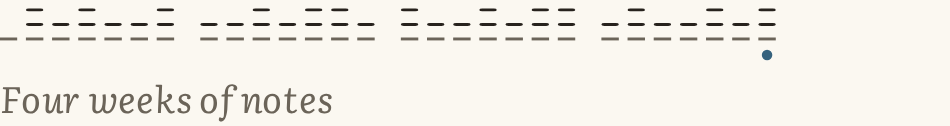
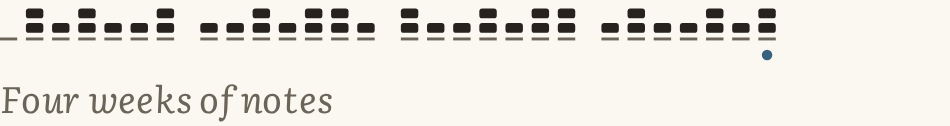
Days marks drawn again; Journal keeps a time with its words; wants-you in coral (T-476) (#171)
* From the day's walk: the Days strip draws its marks again (the pages' own marks are pa-leaf, so their 1px rule no longer flattens Days'); Journal keeps a time with its words across a page; what wants you under a row is in the coral of the next thing (T-476)

* From the review: the parts' pictures other than Days stay as drawn on paper (the new ones caught the evening sky); THEME, LOOK and the token's description say a row's wants-you line is the primary (T-476)

* embed e2e: a "home" another test allowed with less asks again for what is new; openAndAllow allows that too (CI's core-next job stopped on that card) (T-476)

* embed e2e: each test's Home has an id of its own, so a "home" another spec allowed can't ask again (replaces the Allow loop, which could approve twice) (T-476)

---------

diff --git a/src/kit/parts.css b/src/kit/parts.css
@@ -84,7 +84,8 @@ div.pa-row { cursor: default; }
 .pa-unseen { position: absolute; width: 1px; height: 1px; overflow: hidden; clip-path: inset(50%); white-space: nowrap; }
 .pa-row[aria-current="true"] { box-shadow: inset 3px 0 0 var(--accent); padding-left: 10px; background: var(--tint); }
 .pa-badge { margin-left: 8px; padding: 0 7px; border: 1.5px solid var(--text); border-radius: 999px; font: 600 var(--fs-label) var(--sans); vertical-align: .15em; }
-.pa-row-under { grid-column: 1 / -1; font-size: var(--fs-small); color: var(--accent); }
+/* what wants the person: in the coral of the next thing, as Home's "Wants you" (the accent is for links) */
+.pa-row-under { grid-column: 1 / -1; font-size: var(--fs-small); color: var(--primary, var(--accent)); }
 .pa-row:not(:has(.pa-row-mark)) .pa-row-under { grid-column: 1 / -1; }
 .pa-more { display: block; margin: var(--gap) auto 0; padding: 5px 16px; border: var(--button-line); border-radius: var(--radius-button); background: var(--button-fill);
   color: var(--text); font: var(--fs-small) var(--sans); cursor: pointer; }
@@ -306,8 +307,8 @@ select.pa-finput { appearance: auto; }
   background: linear-gradient(to bottom, var(--sky-top) 0, var(--sky-mid) 55%, var(--sky-foot) 82%, var(--bg) 100%); }
 @media (min-width: 900px) { .pa-sky { height: min(380px, 48%); } }
 /* a snap point per spread, and every later page's running head: the place's name over a thin strip of the sky */
-.pa-mark { position: absolute; top: 0; height: 1px; pointer-events: none; }
-.pa-mark.pa-snap { scroll-snap-align: start; }
+.pa-leaf { position: absolute; top: 0; height: 1px; pointer-events: none; }
+.pa-leaf.pa-snap { scroll-snap-align: start; }
 .pa-runhead { box-sizing: border-box; height: 32px; padding: 9px 20px 0; border-top: 4px solid var(--sky-top); color: var(--muted);
   font: var(--title-weight) var(--fs-small)/1.2 var(--display, var(--serif)); white-space: nowrap; overflow: hidden; text-overflow: ellipsis; }
 .pa-dock { flex: none; box-sizing: border-box; width: 100%; max-width: 760px; margin: 0 auto; padding: 8px var(--pad); border-top: var(--line-row); }
@@ -331,13 +332,13 @@ select.pa-finput { appearance: auto; }
 :root[data-sized] .pa-page.pa-paged { display: block; height: auto; }
 :root[data-sized] .pa-book { overflow: visible; width: auto !important; }
 :root[data-sized] .pa-flow { height: auto; column-width: auto !important; column-count: 1 !important; width: auto !important; }
-:root[data-sized] :is(.pa-sky, .pa-mark, .pa-pageline) { display: none; }
+:root[data-sized] :is(.pa-sky, .pa-leaf, .pa-pageline) { display: none; }
 @media print {
   :root:has(.pa-paged), :root:has(.pa-paged) body { height: auto; overflow: visible; }
   .pa-page.pa-paged { display: block; height: auto; overflow: visible; }
   .pa-book { overflow: visible; width: auto !important; }
   .pa-flow { height: auto; column-width: auto !important; column-count: 1 !important; width: auto !important; }
-  :is(.pa-sky, .pa-mark, .pa-pageline, .pa-dock) { display: none; }
+  :is(.pa-sky, .pa-leaf, .pa-pageline, .pa-dock) { display: none; }
 }
 }
 @layer parachute.parts {

diff --git a/e2e/journal.spec.ts b/e2e/journal.spec.ts
@@ -170,3 +170,34 @@ test("journal offline: lines the vault can't take wait on the device in order an
     for (const id of made) await api(hubState(), "DELETE", `notes/${id}`).catch(() => {});
   }
 });
+
+test("journal on pages: an entry's time never sits at a page's foot without its words", async ({ page }) => {
+  const stamp = Date.now().toString(36);
+  const made: string[] = [];
+  made.push((await record(hubState(), "create", appletRecord("journal"))).id);
+  const now = new Date(), day = `${now.getFullYear()}/${String(now.getMonth() + 1).padStart(2, "0")}-${String(now.getDate()).padStart(2, "0")}`;
+  // a day of entries of every length, so some time lands at the foot of a page
+  for (let i = 0; i < 24; i++) {
+    const words = `Entry ${i} ${stamp}. ` + "The beds want turning before the frost comes in. ".repeat(1 + (i * 7) % 5);
+    made.push((await api(hubState(), "POST", "notes", { path: `Journal/${day}/${String(i % 24).padStart(2, "0")}-${String(10 + i).padStart(2, "0")} Entry ${i} ${stamp}`, tags: ["journal"], content: words })).id);
+  }
+  try {
+    await page.goto(`/v/${VAULT}?with=vault`);
+    await ui(page).getByRole("list", { name: "Applets" }).getByRole("link", { name: /Journal/ }).click();
+    await page.getByRole("button", { name: "Allow" }).click();
+    const app = page.frameLocator("iframe.applet-frame");
+    await expect(app.getByText(`Entry 0 ${stamp}.`)).toBeVisible();
+    // each entry's time and its first line of words are on one page
+    const apart = await app.locator(".pa-book").evaluate((book) => {
+      const w = book.querySelector<HTMLElement>(":scope > .pa-leaf")!.offsetWidth, x0 = book.getBoundingClientRect().left - book.scrollLeft;
+      const pageOf = (el: Element) => Math.floor((el.getBoundingClientRect().left - x0) / w);
+      return [...book.querySelectorAll(".entry")].filter((e) => { const t = e.querySelector(".when"), n = e.querySelector(".pa-note"); return t && n && pageOf(t) !== pageOf(n); }).map((e) => e.getAttribute("aria-label"));
+    });
+    expect(apart).toEqual([]);
+    // the strip of the last four weeks draws its marks at their own height (the pages' marks once flattened them to 1px)
+    const tallest = await app.locator(".pa-days rect.pa-mark").evaluateAll((rs) => Math.max(0, ...rs.map((r) => (r as SVGGraphicsElement).getBBox().height)));
+    expect(tallest).toBeGreaterThan(3);
+  } finally {
+    for (const id of made) await api(hubState(), "DELETE", `notes/${id}`).catch(() => {});
+  }
+});

diff --git a/e2e/embed.spec.ts b/e2e/embed.spec.ts
@@ -25,6 +25,7 @@ async function orgComponent(made: Made, id: string, name: string, code: string, 
   made.home.push((await home("POST", "notes", { path: pointerPathFor(id), content: `${name}, from techne.`, tags: ["parachute-pointer"], metadata: { pointer: { hub: techneState().origin, vault: ORG_VAULT, record: c.id, kind: "component", id, name, code: `tsx:${await sha(code)}` } } })).id);
   return c.id as string;
 }
+// each test's Home has an id of its own: an applet "home" another spec allowed (worked.spec) would otherwise ask again
 async function setUp(made: Made, opts: { props?: Record<string, unknown>; more?: { name: string; record: string }[] } = {}) {
   for (const [title, when] of [["Seed swap", "2026-11-20"], ["Barn raising", "2026-11-28"]]) made.org.push((await org("POST", "notes", { path: `Events/${title}`, content: title, metadata: { when } })).id);
   const events = await org("POST", "notes", { path: "Components/Events", extension: "tsx", content: fixture("techne/Events.tsx"), tags: ["component"], metadata: EVENTS_FIELDS });
@@ -33,7 +34,7 @@ async function setUp(made: Made, opts: { props?: Record<string, unknown>; more?:
   const pointerPath = `Parachute/From/${hostOf(techneState().origin).replace(/[^A-Za-z0-9.-]/g, "-")}/${ORG_VAULT}/component-events`;
   made.home.push((await home("POST", "notes", { path: pointerPath, content: "Events, from techne.", tags: ["parachute-pointer"], metadata: { pointer: { hub: techneState().origin, vault: ORG_VAULT, record: events.id, kind: "component", id: "events", name: "Events", code } } })).id);
   const h = await home("POST", "notes", { path: "Applets/Home", extension: "tsx", content: fixture("techne/Home.tsx"), tags: ["applet"],
-    metadata: { applet: { contract: 2, id: "home", name: "Home", glyph: "⌂", access: [{ vault: "here", allow: [{ path: "Recipes/", verbs: ["read"] }] }] }, embeds: [{ name: "events", record: pointerPath, props: opts.props ?? { days: 30 } }, ...(opts.more ?? [])] } });
+    metadata: { applet: { contract: 2, id: `home-${Date.now().toString(36)}`, name: "Home", glyph: "⌂", access: [{ vault: "here", allow: [{ path: "Recipes/", verbs: ["read"] }] }] }, embeds: [{ name: "events", record: pointerPath, props: opts.props ?? { days: 30 } }, ...(opts.more ?? [])] } });
   made.home.push(h.id);
   return { events: events.id, home: h.id, pointerPath };
 }

diff --git a/e2e/pages.spec.ts b/e2e/pages.spec.ts
@@ -74,7 +74,7 @@ async function openLeaves(page: Page) {
   return { app, inner };
 }
 /** The book's scroll, and the page width it turns by. */
-const book = (inner: Frame) => inner.evaluate(() => { const b = document.querySelector<HTMLElement>(".pa-book")!; return { left: b.scrollLeft, page: b.querySelector<HTMLElement>(".pa-mark")!.offsetWidth, count: Number(/of (\d+)/.exec(document.querySelector(".pa-at")!.textContent ?? "")?.[1] ?? 1) }; });
+const book = (inner: Frame) => inner.evaluate(() => { const b = document.querySelector<HTMLElement>(".pa-book")!; return { left: b.scrollLeft, page: b.querySelector<HTMLElement>(".pa-leaf")!.offsetWidth, count: Number(/of (\d+)/.exec(document.querySelector(".pa-at")!.textContent ?? "")?.[1] ?? 1) }; });
 
 test("a long place is a run of pages: the arrows glide a page, the keys turn at once, nothing scrolls down", async ({ page }) => {
   const { app, inner } = await openLeaves(page);
@@ -124,7 +124,7 @@ test("a line that grows as you write shrinks the pages, and the count follows: t
   /** the count shown, and the pages the place really takes (the column its end falls in) */
   const geo = () => inner.evaluate(() => {
     const flow = document.querySelector<HTMLElement>(".pa-flow")!, end = flow.querySelector<HTMLElement>(":scope > .pa-end")!;
-    const w = document.querySelector<HTMLElement>(".pa-mark")!.offsetWidth;
+    const w = document.querySelector<HTMLElement>(".pa-leaf")!.offsetWidth;
     return { shown: Number(/of (\d+)/.exec(document.querySelector(".pa-at")!.textContent ?? "")?.[1] ?? 0), need: Math.floor((end.getBoundingClientRect().left - flow.getBoundingClientRect().left) / w) + 1, h: document.querySelector<HTMLElement>(".pa-book")!.clientHeight };
   });
   const g0 = await geo();

diff --git a/applets/journal.tsx b/applets/journal.tsx
@@ -45,6 +45,8 @@ const CSS = `
 .day { margin: calc(var(--gap) * 1.8) 0 6px; padding-bottom: 4px; border-bottom: 1px solid var(--line); font: italic var(--fs-body) var(--serif); color: var(--muted); }
 .entry { padding: 6px 0 10px; }
 .entry .when, .opened .when { font: 600 var(--fs-label) var(--sans); color: var(--muted); letter-spacing: .03em; }
+/* on pages: a day's name and an entry's time stay with what follows them */
+.day, .entry .when { break-after: avoid; }
 .entry .voice { margin-left: 8px; font-size: var(--fs-label); color: var(--muted); }
 .entry .wait { font-style: italic; color: var(--muted); }
 .opened { margin: 0 0 18px; padding: 10px 14px; background: var(--card-fill); border: var(--line-card); border-width: var(--card-edges); border-radius: var(--radius-card); box-shadow: var(--shadow-card); }

diff --git a/src/theme/theme.ts b/src/theme/theme.ts
@@ -47,7 +47,7 @@ export const DENSITY: Record<Density, Record<DensityKey, string>> = {
 // every one a value; a record's `tokens` changes them one by one.
 export type StyleKind = "color" | "line" | "edges" | "length" | "pad" | "shadow" | "transform" | "caps" | "track" | "weight";
 export const STYLE_TOKENS = {
-  "primary":         { kind: "color", what: "the main action's fill (a primary button, a field's action)" },
+  "primary":         { kind: "color", what: "the main action's fill (a primary button, a field's action), and what wants the person under a row" },
   "on-primary":      { kind: "color", what: "text on the main action" },
   "tint":            { kind: "color", what: "a row under the pointer, the row open now: a light wash" },
   "card-fill":       { kind: "color", what: "a card's ground" },

diff --git a/src/kit/pages.ts b/src/kit/pages.ts
@@ -96,7 +96,7 @@ export function pages(book: HTMLElement, flow: HTMLElement, line: { at: HTMLElem
         marks.push(m);
       }
       const head = i > 0 && i < count;
-      m.className = `pa-mark${head ? " pa-runhead" : ""}${i % per === 0 ? " pa-snap" : ""}`;
+      m.className = `pa-leaf${head ? " pa-runhead" : ""}${i % per === 0 ? " pa-snap" : ""}`;
       m.style.left = `${i * pageW}px`;
       m.style.width = `${pageW}px`;
       const words = head ? said : "";

diff --git a/src/kit/parts.tsx b/src/kit/parts.tsx
@@ -68,7 +68,7 @@ export type Row = {
   strong?: boolean;
   /** the one open now (aria-current) */
   current?: boolean;
-  /** a line under the rest, in the accent: what wants the person */
+  /** a line under the rest, in the coral of the next thing: what wants the person */
   under?: ReactNode;
   /** what a screen reader says for a row that is a button, when its text isn't enough */
   label?: string;

diff --git a/docs/WRITE-AN-APPLET.md b/docs/WRITE-AN-APPLET.md
@@ -293,7 +293,7 @@ does. Each takes plain props; a newer prop is only ever added, never changed.
 | `<Linked text web? />` | Plain text with its note links drawn as `Link`s: a message, a mail. With `web`, its other web addresses too (they open only with `links`). |
 | `link (.to, .follow, .open, .parse, .find)` | The links as calls: `await link.to(record)` is the address to write for a note of the applet's vault; `link.follow(target, { from })` opens one on a tap; `link.open(record)` opens a note of its own vault on a tap (a row's `onPress`); `link.parse(text)` says what a link names (or null); `link.find(text)` gives the links in plain text. |
 | `<Days times? counts? days? label? inline? />` | What changed, a day at a time: a column of ink marks per day, weeks set apart, today marked. Give `times` (ISO times, counted by day) or `counts` (one number a day, oldest first, today last: `1` and `0` for done or not). It shows; it is not a control. `days` defaults to 28; `inline` draws it inside a line (a row, a link). |
-| `<List label? hideLabel? rows more? />` | Rows under a label. A row is `{ key?, title, meta?, aside?, glyph?, check?, onPress?, badge?, strong?, current?, under?, label?, data? }`: `meta` a line under the title, `aside` a word at the right (a date, a count), `glyph` one character in a mark at the left, `check` a box to tick in that mark (`true` the tick, `false` the same circle empty; a button row says pressed or not), `badge` a small count after the title, `strong` bold (what is new), `current` the row open now, `under` words in the accent across the row's foot (what wants the person: `under: "Late"`, not `true`), `label` what a screen reader says for it; one with `onPress` is a button. A long list costs little (a row off screen isn't drawn); `more: { label, onPress }` asks for the next page; `hideLabel` says the label to a screen reader only. |
+| `<List label? hideLabel? rows more? />` | Rows under a label. A row is `{ key?, title, meta?, aside?, glyph?, check?, onPress?, badge?, strong?, current?, under?, label?, data? }`: `meta` a line under the title, `aside` a word at the right (a date, a count), `glyph` one character in a mark at the left, `check` a box to tick in that mark (`true` the tick, `false` the same circle empty; a button row says pressed or not), `badge` a small count after the title, `strong` bold (what is new), `current` the row open now, `under` words across the row's foot in the colour of what to do next (`--primary`: coral in Paper, the text's own colour in the other looks) (what wants the person: `under: "Late"`, not `true`), `label` what a screen reader says for it; one with `onPress` is a button. A long list costs little (a row off screen isn't drawn); `more: { label, onPress }` asks for the next page; `hideLabel` says the label to a screen reader only. |
 | `<Card title?>…</Card>` | A block that stands apart, with a title: a summary, one thing's detail, a choice to make. Buttons in it go in a `<div className="pa-actions">`. Rows of things are a `List`, not cards. |
 | `<Table label columns rows? groups? sort? onSort? more? />` | Records as rows and columns (level 3). `columns` is `[{ key, label, align?, width?, sortable? }]`, a row `{ key, cells: { [column key]: text }, onPress?, current?, label? }`; the first column stays in view as the rest scroll across, a header's tap calls `onSort(key)` (show it with `sort: { by, dir }`), `groups: [{ key, label, count?, rows }]` draws headings, and `more` reads the next page by itself as the foot comes near. A row off screen isn't drawn. |
 | `<Fields label? fields onSave? />` | A record's fields, name and value (level 3). A field is `{ name, label?, kind?, choices?, value, readOnly? }`, `kind` one of `text`, `number`, `yesno`, `choice`, `date`, `list`, `long`; with `onSave(name, value)` each is changed where it stands (a choice, a box for yes or no, a number, a date) and saved on Enter, on leaving it or on the pick, the value typed back by its kind (`""` is `null`). |

diff --git a/docs/THEME.md b/docs/THEME.md
@@ -73,7 +73,7 @@ The style tokens, what each draws, and its value in `paper` and in `almanac` (`s
 
 | Token | What it draws | `paper` | `almanac` |
 |---|---|---|---|
-| `--primary` | The main action's fill (a primary button, a field's action): the one thing you do next, and a count of what wants you on the bar. In `paper` it is coral whatever the accent is; set it in `tokens` to change it. | `#bf4a2a` (coral; `#e07552` in the dark) | `var(--text)` |
+| `--primary` | The main action's fill (a primary button, a field's action): the one thing you do next, a count of what wants you on the bar, and the words under a row that say what wants you. In `paper` it is coral whatever the accent is; set it in `tokens` to change it. | `#bf4a2a` (coral; `#e07552` in the dark) | `var(--text)` |
 | `--on-primary` | Text on the main action. | `#ffffff` | `var(--bg)` |
 | `--tint` | A row under the pointer, the row open now: a light wash. | `color-mix(in srgb, var(--text) 5%, transparent)` | `color-mix(in srgb, var(--line) 30%, transparent)` |
 | `--card-fill` | A card's ground. | `var(--surface)` | `var(--surface)` |

diff --git a/docs/LOOK.md b/docs/LOOK.md
@@ -79,7 +79,8 @@ applet that moves things in its own code asks the kit `still()` first.
 - **Paper below.** Lists, a room's talk, a note, Settings and editing are warm paper (`--bg`) with hairline rules
   between rows: no cards per row, no shadows, no tints, ink type.
 - **Coral** is spent on the mark and on the one thing you do next: a primary button, the ask's answers, Send once
-  there is something to send, and the count of what wants you on a tab. Links, the focus ring and a ticked box are the
+  there is something to send, the count of what wants you on a tab, and the line under a row that says what wants
+  you. Links, the focus ring and a ticked box are the
   sky's own ink (`--accent`), not coral.
 - **Empty.** "Nothing wants you" and an empty room get a small still scene: the parachute landed, and one line.
 
